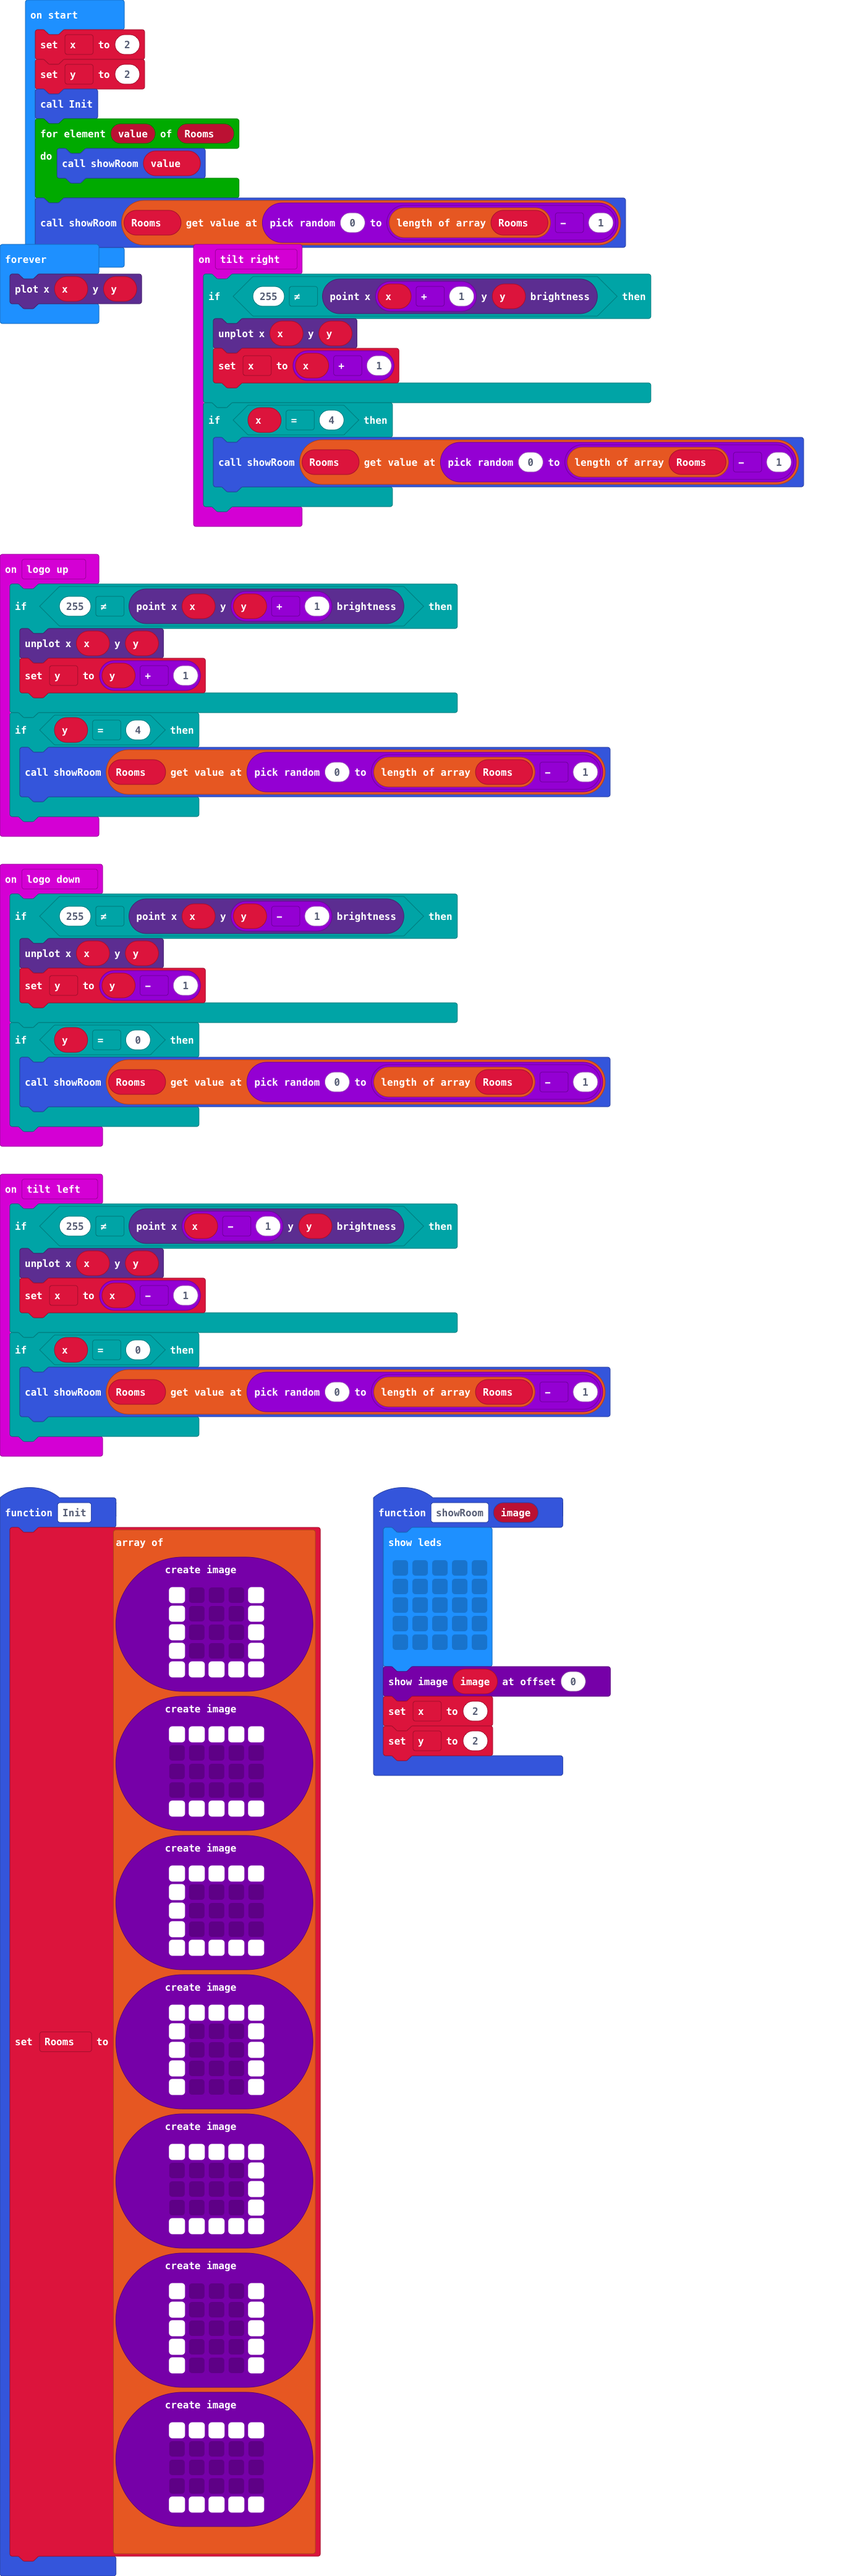
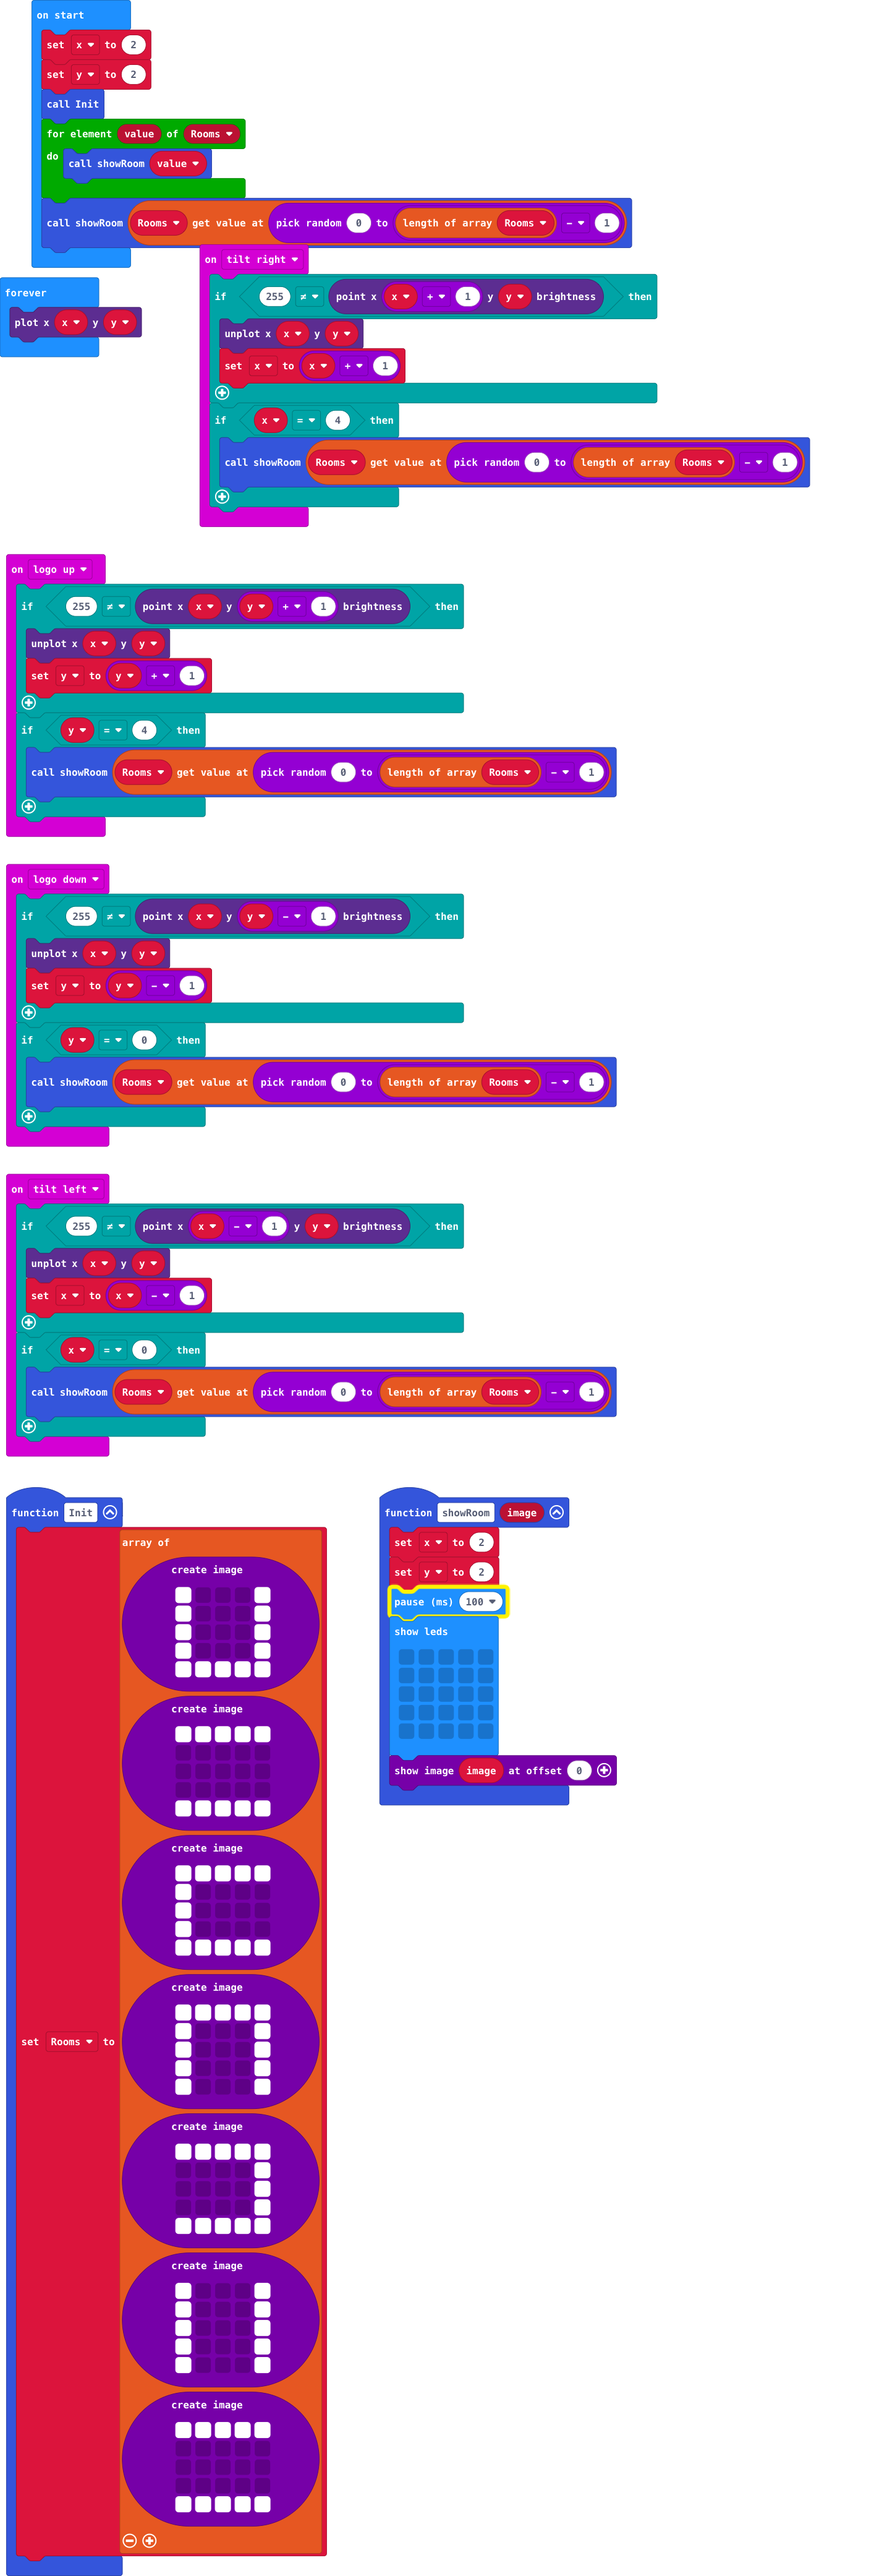
Update main.blocks, main.ts

diff --git a/main.ts b/main.ts
@@ -1,4 +1,7 @@
 function showRoom (image: Image) {
+    x = 2
+    y = 2
+    basic.pause(100)
     basic.showLeds(`
         . . . . .
         . . . . .
@@ -7,8 +10,6 @@ function showRoom (image: Image) {
         . . . . .
         `)
     image.showImage(0)
-    x = 2
-    y = 2
 }
 input.onGesture(Gesture.LogoUp, function () {
     if (255 != led.pointBrightness(x, y + 1)) {
